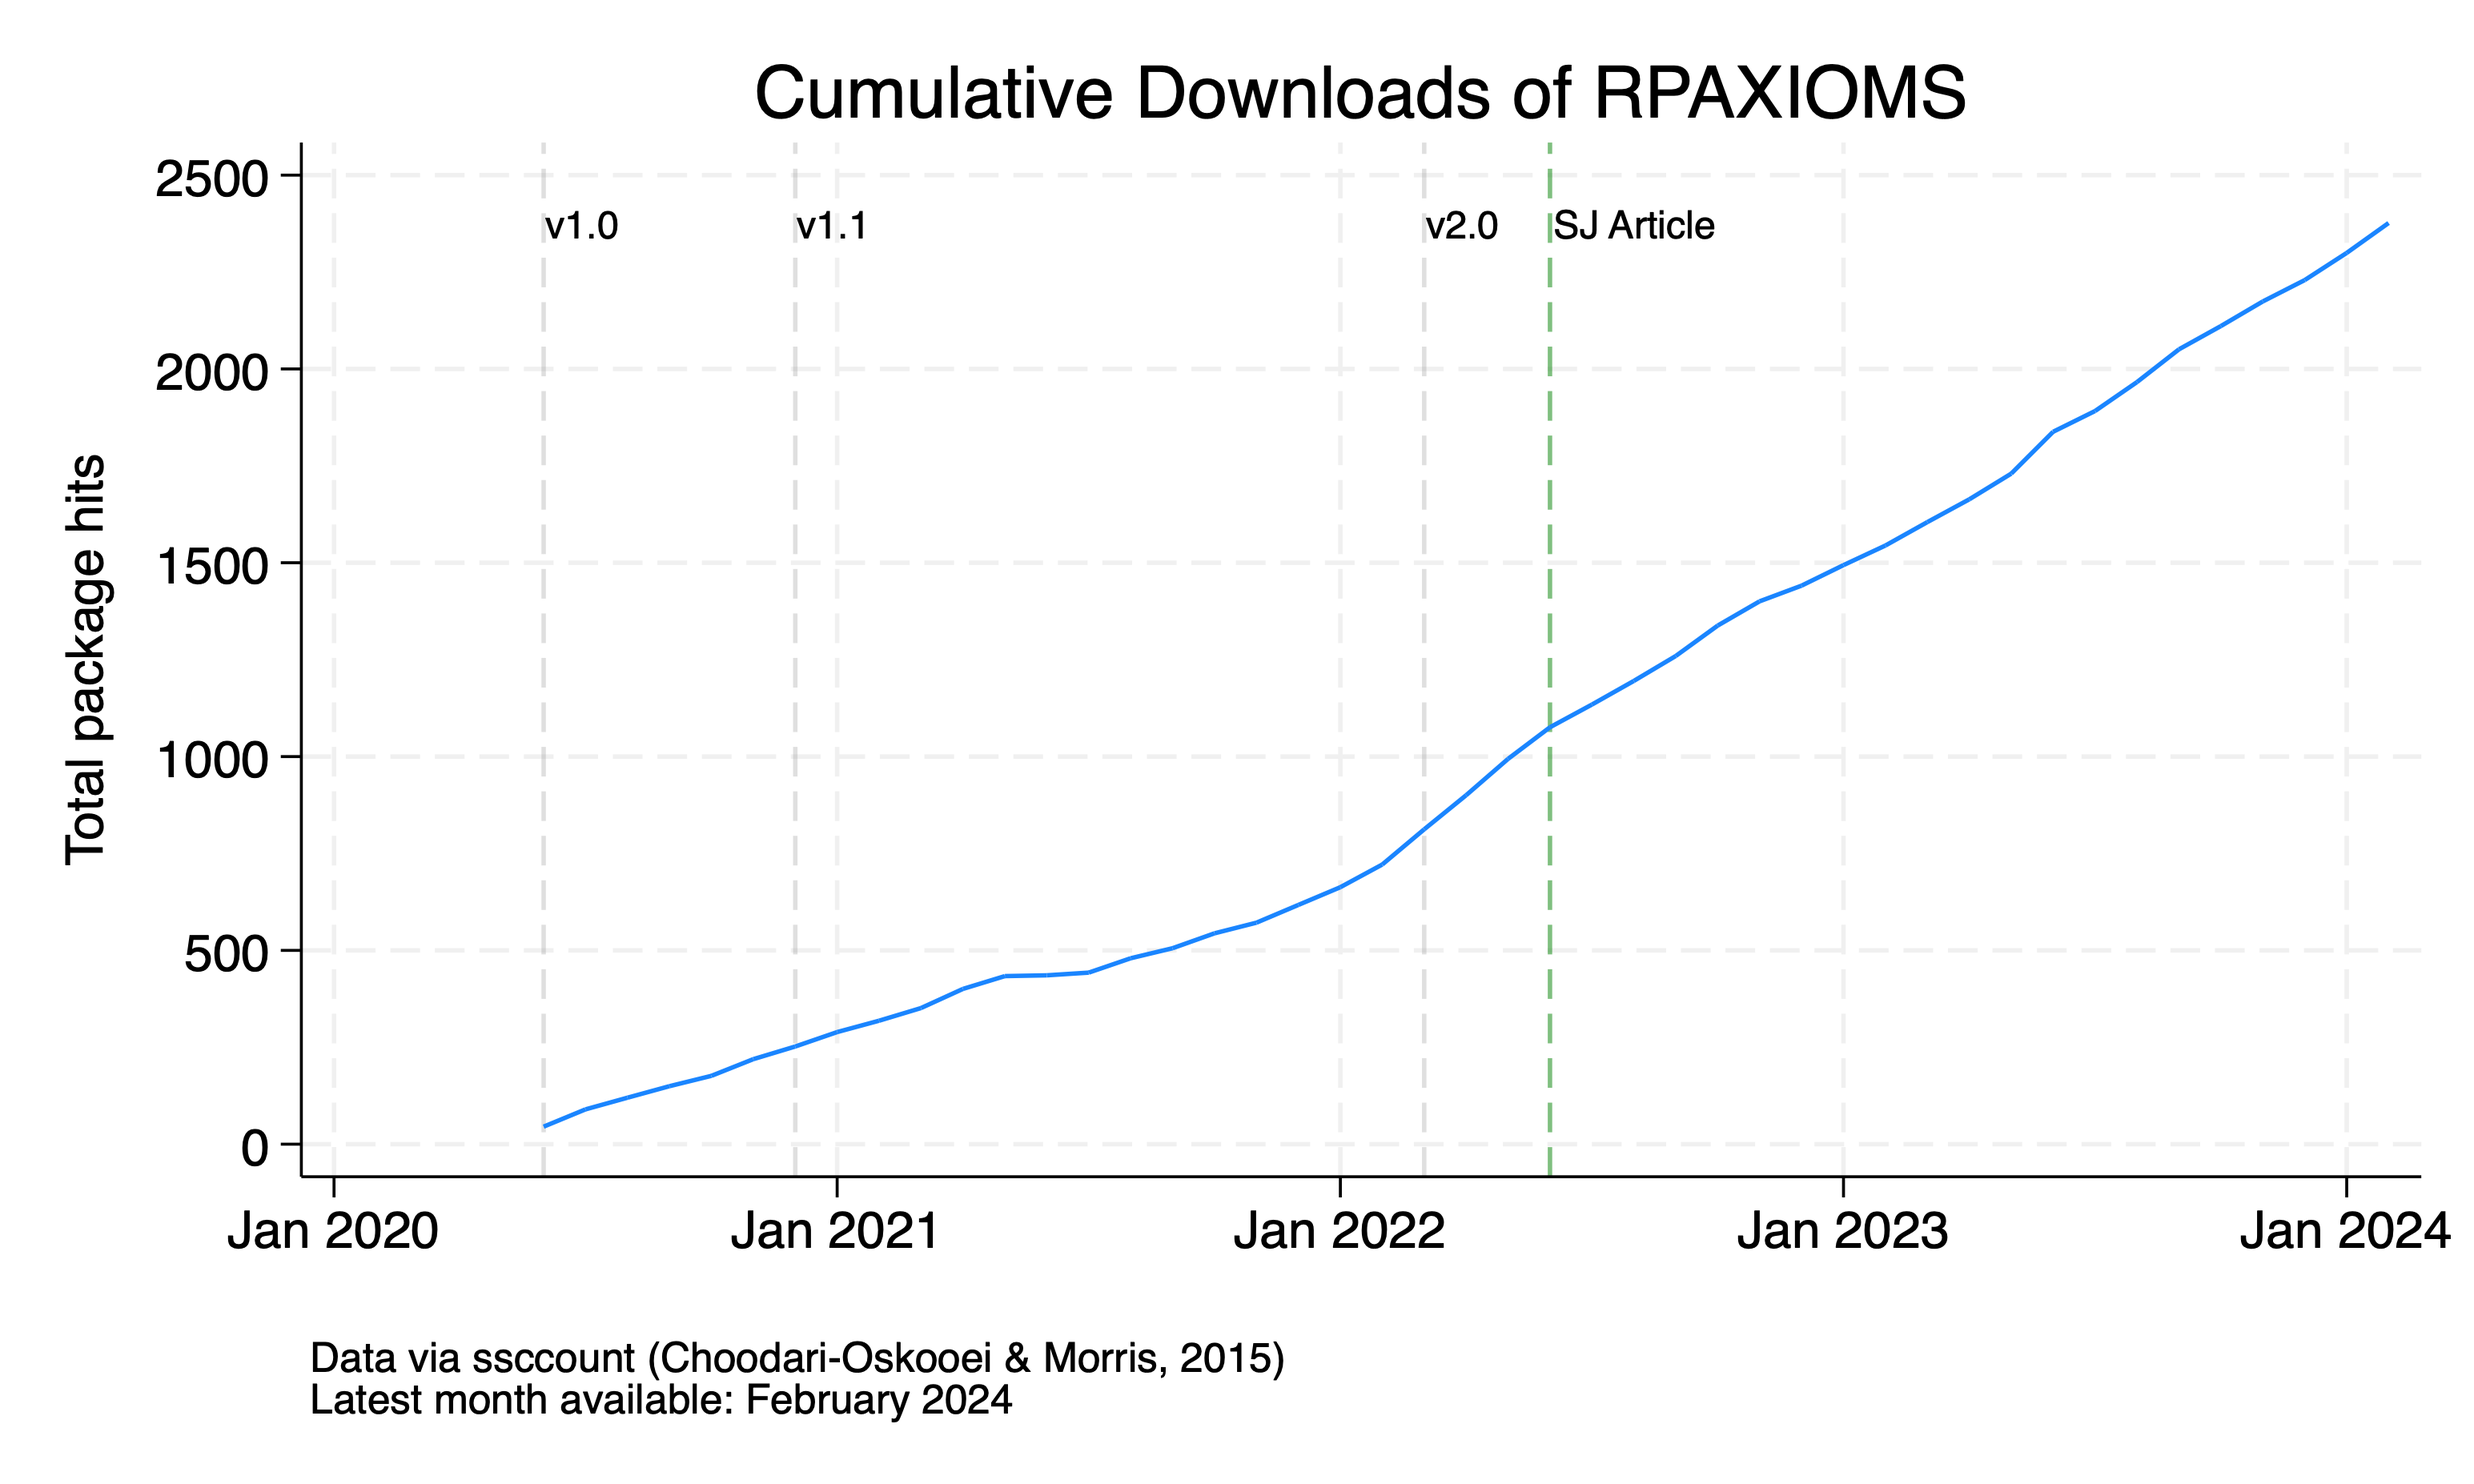
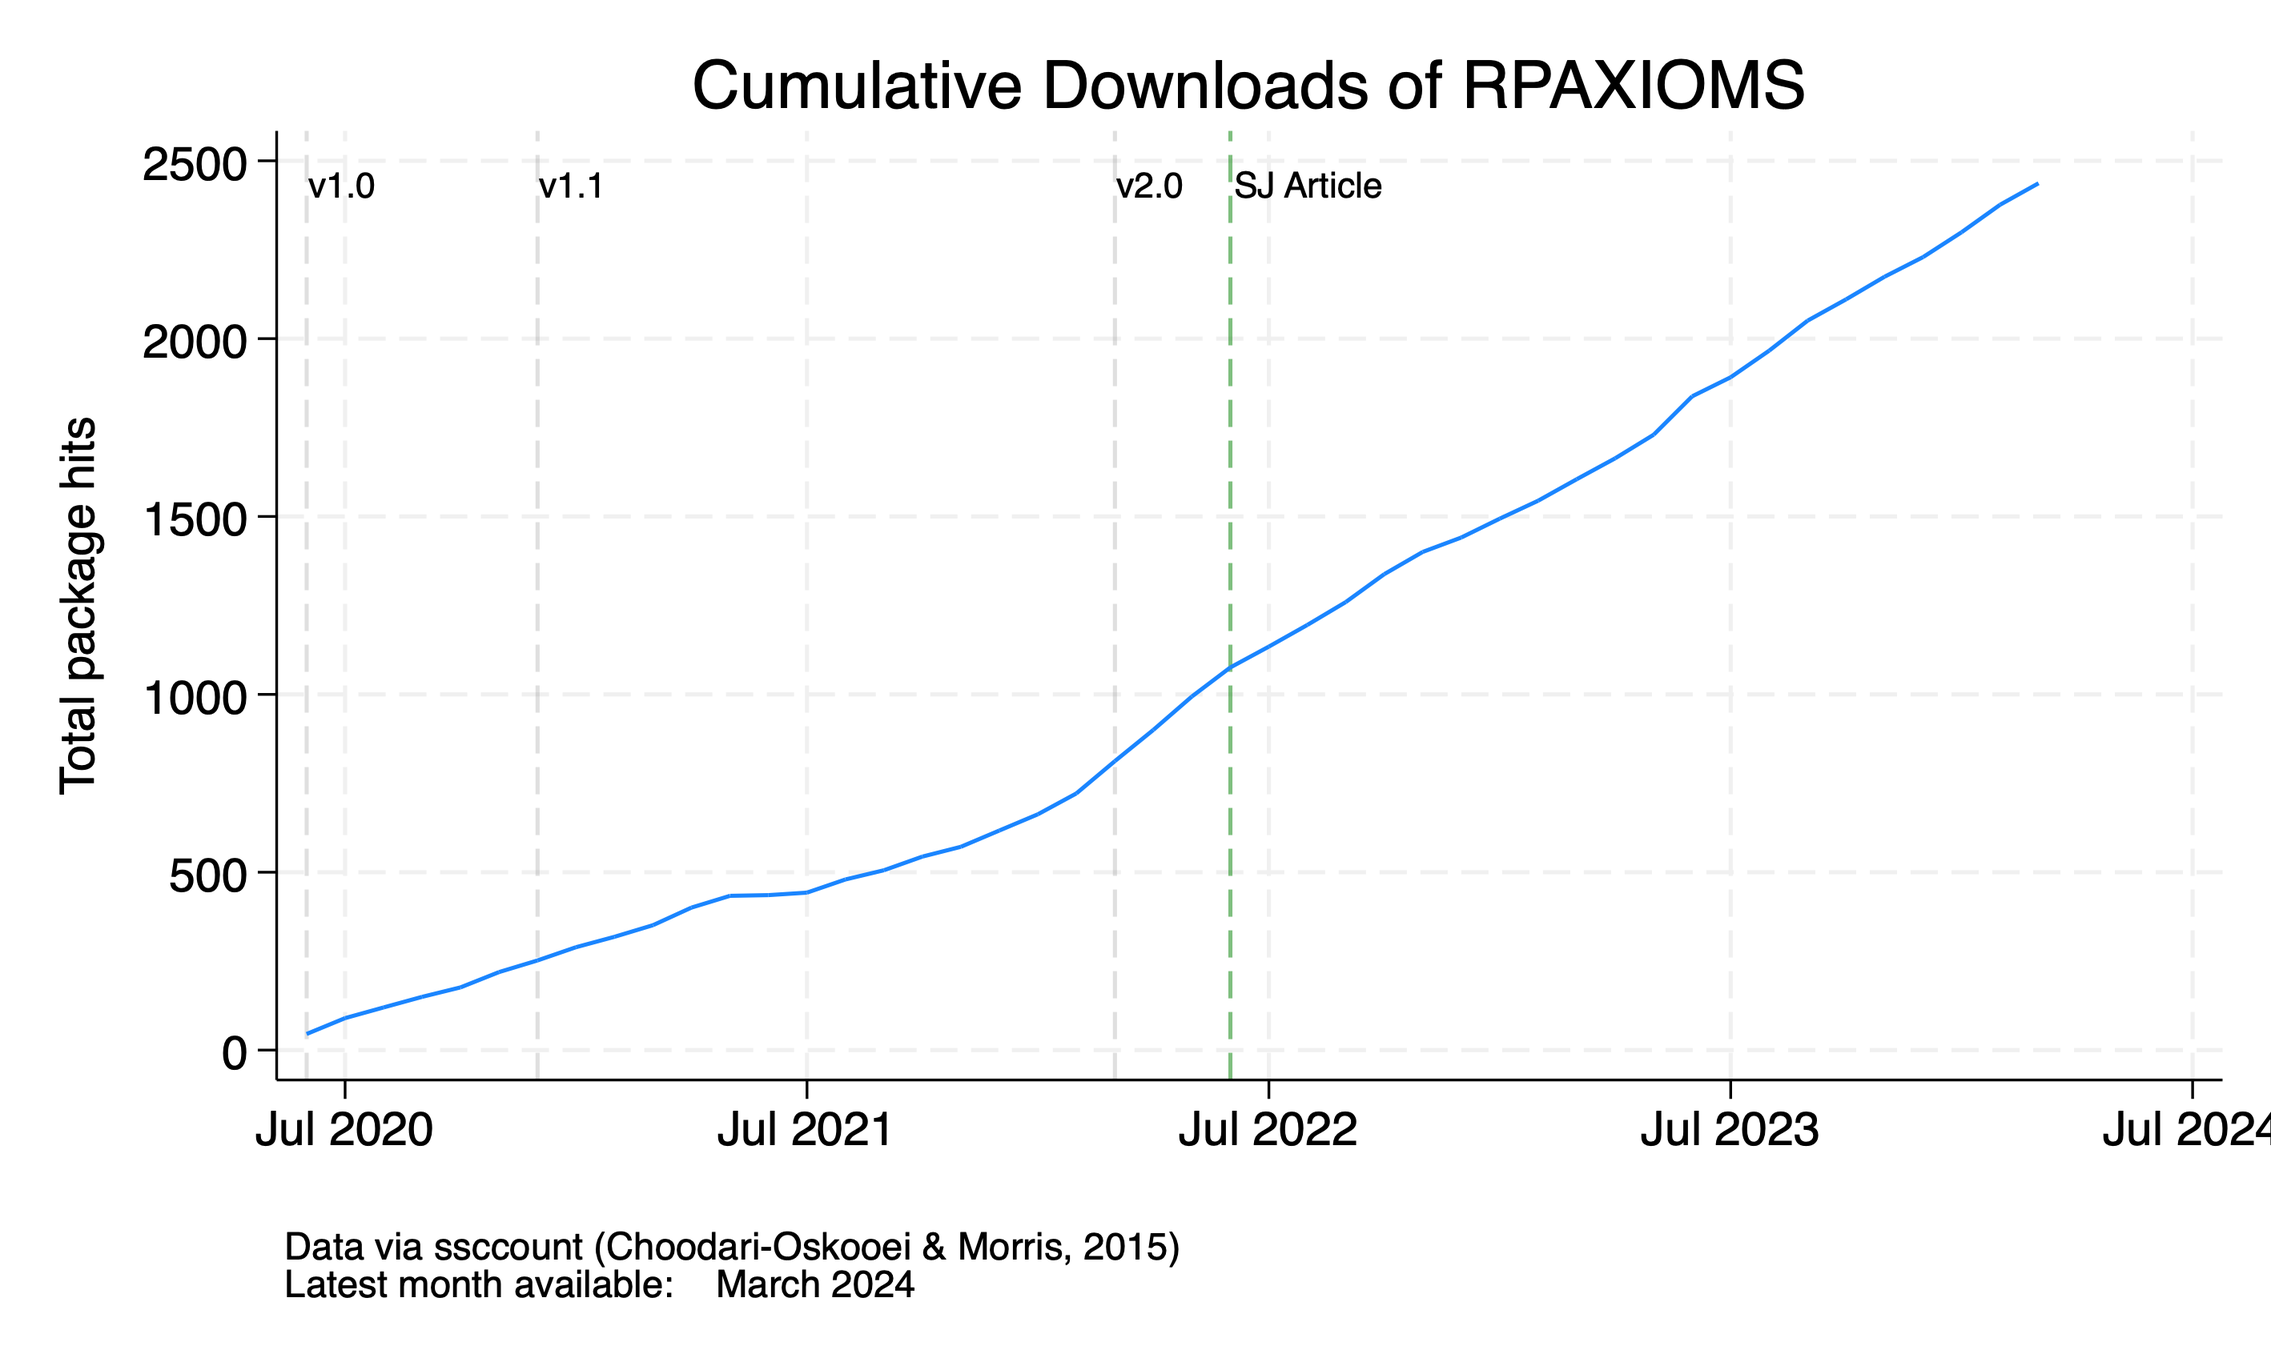
updated npkghits

diff --git a/_posts/2022-07-01-rpaxioms.md b/_posts/2022-07-01-rpaxioms.md
@@ -17,7 +17,7 @@ household-level aggregate consumption data.
 ## Citation
 Demetry, M., Hjertstrand, P. and Polisson, M., 2022. Testing axioms of revealed preference in Stata. <i>The Stata Journal</i>, 22(2), pp.319-343.
 
-## Total downloads: 2,376
+## Total downloads: 2,437
 <img src="/assets/img/rpaxioms_cumulative_hits.png" alt="number of downloads" width="100%"/>
 
 <details>

diff --git a/_posts/2022-12-01-hmindex.md b/_posts/2022-12-01-hmindex.md
@@ -13,7 +13,7 @@ note introduces the _Stata_ command __hmindex__, which calculates the Houtman-Ma
 prices and observed choices of a consumer. The command is illustrated with an empirical application.
 
 
-## Total downloads: 1,143
+## Total downloads: 1,194
 <img src="/assets/img/hmindex_cumulative_hits.png" alt="number of downloads" width="100%"/>
 
 
